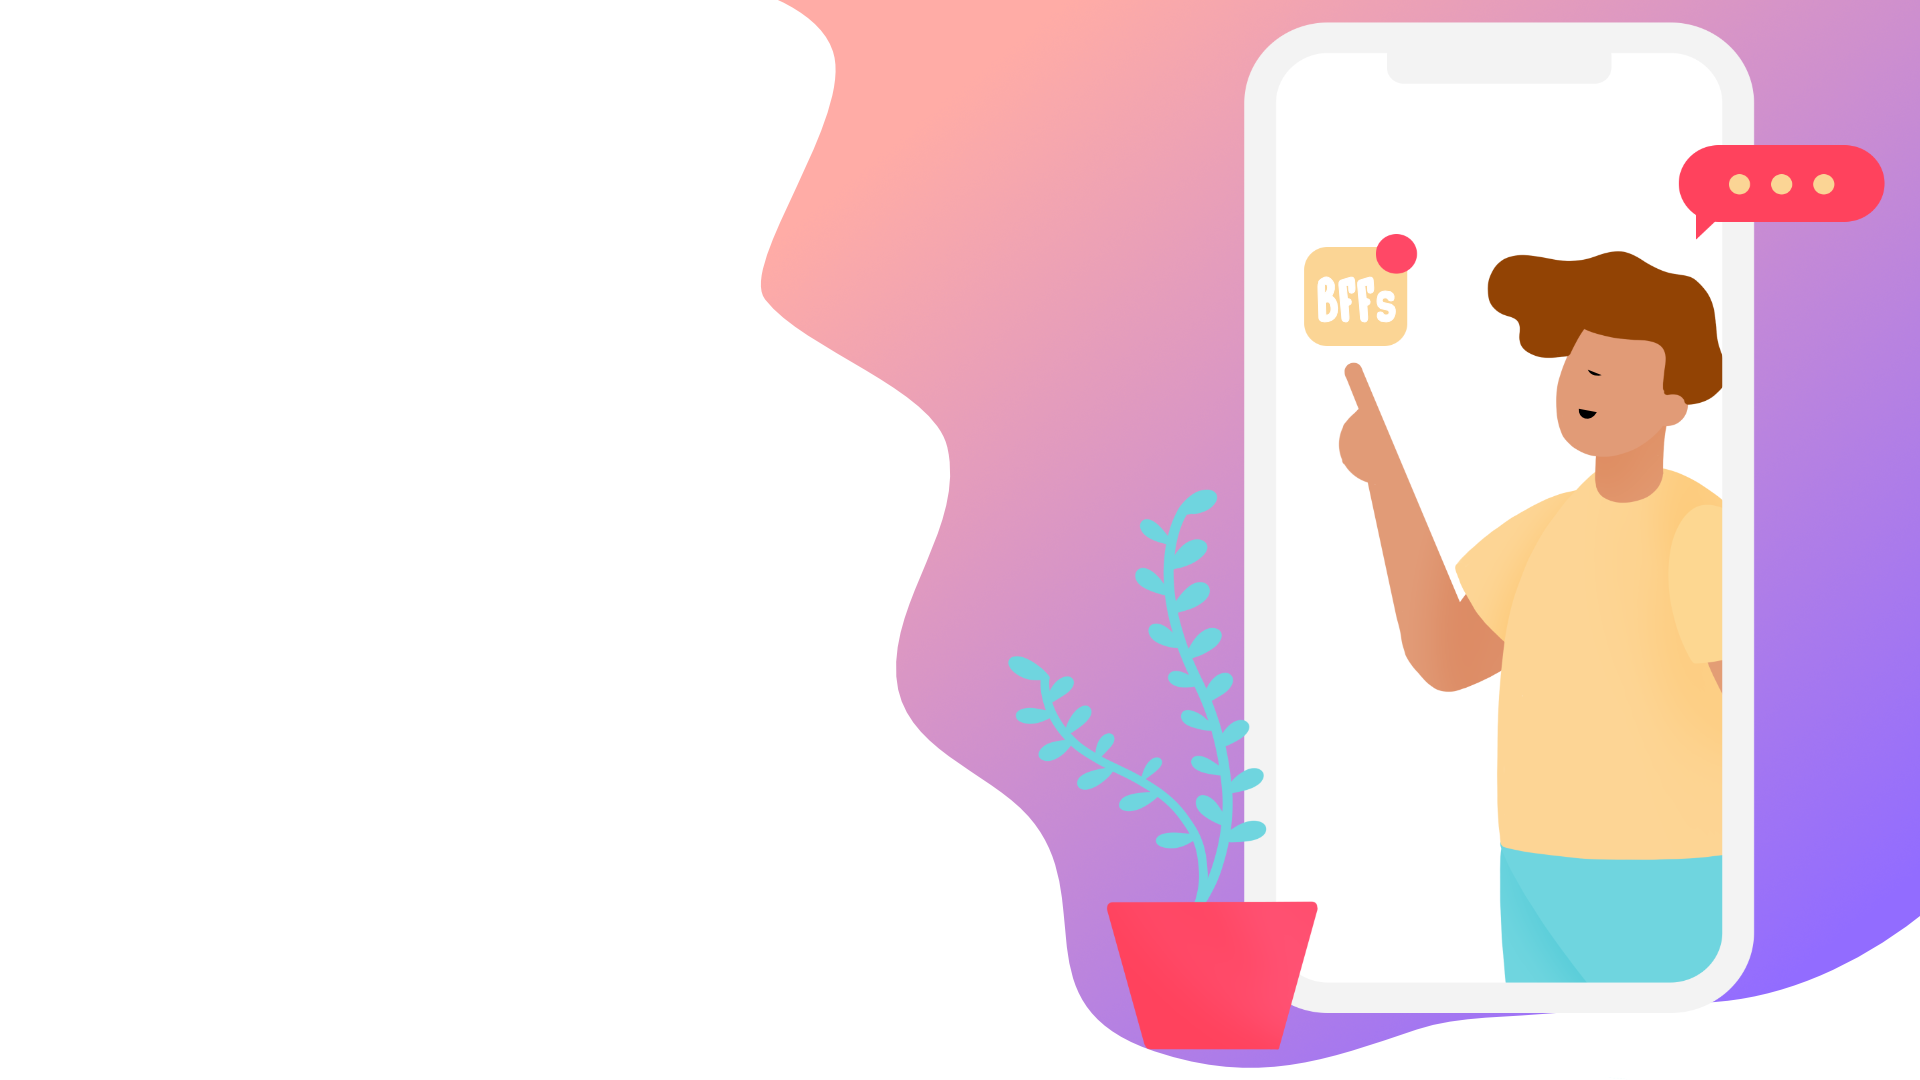
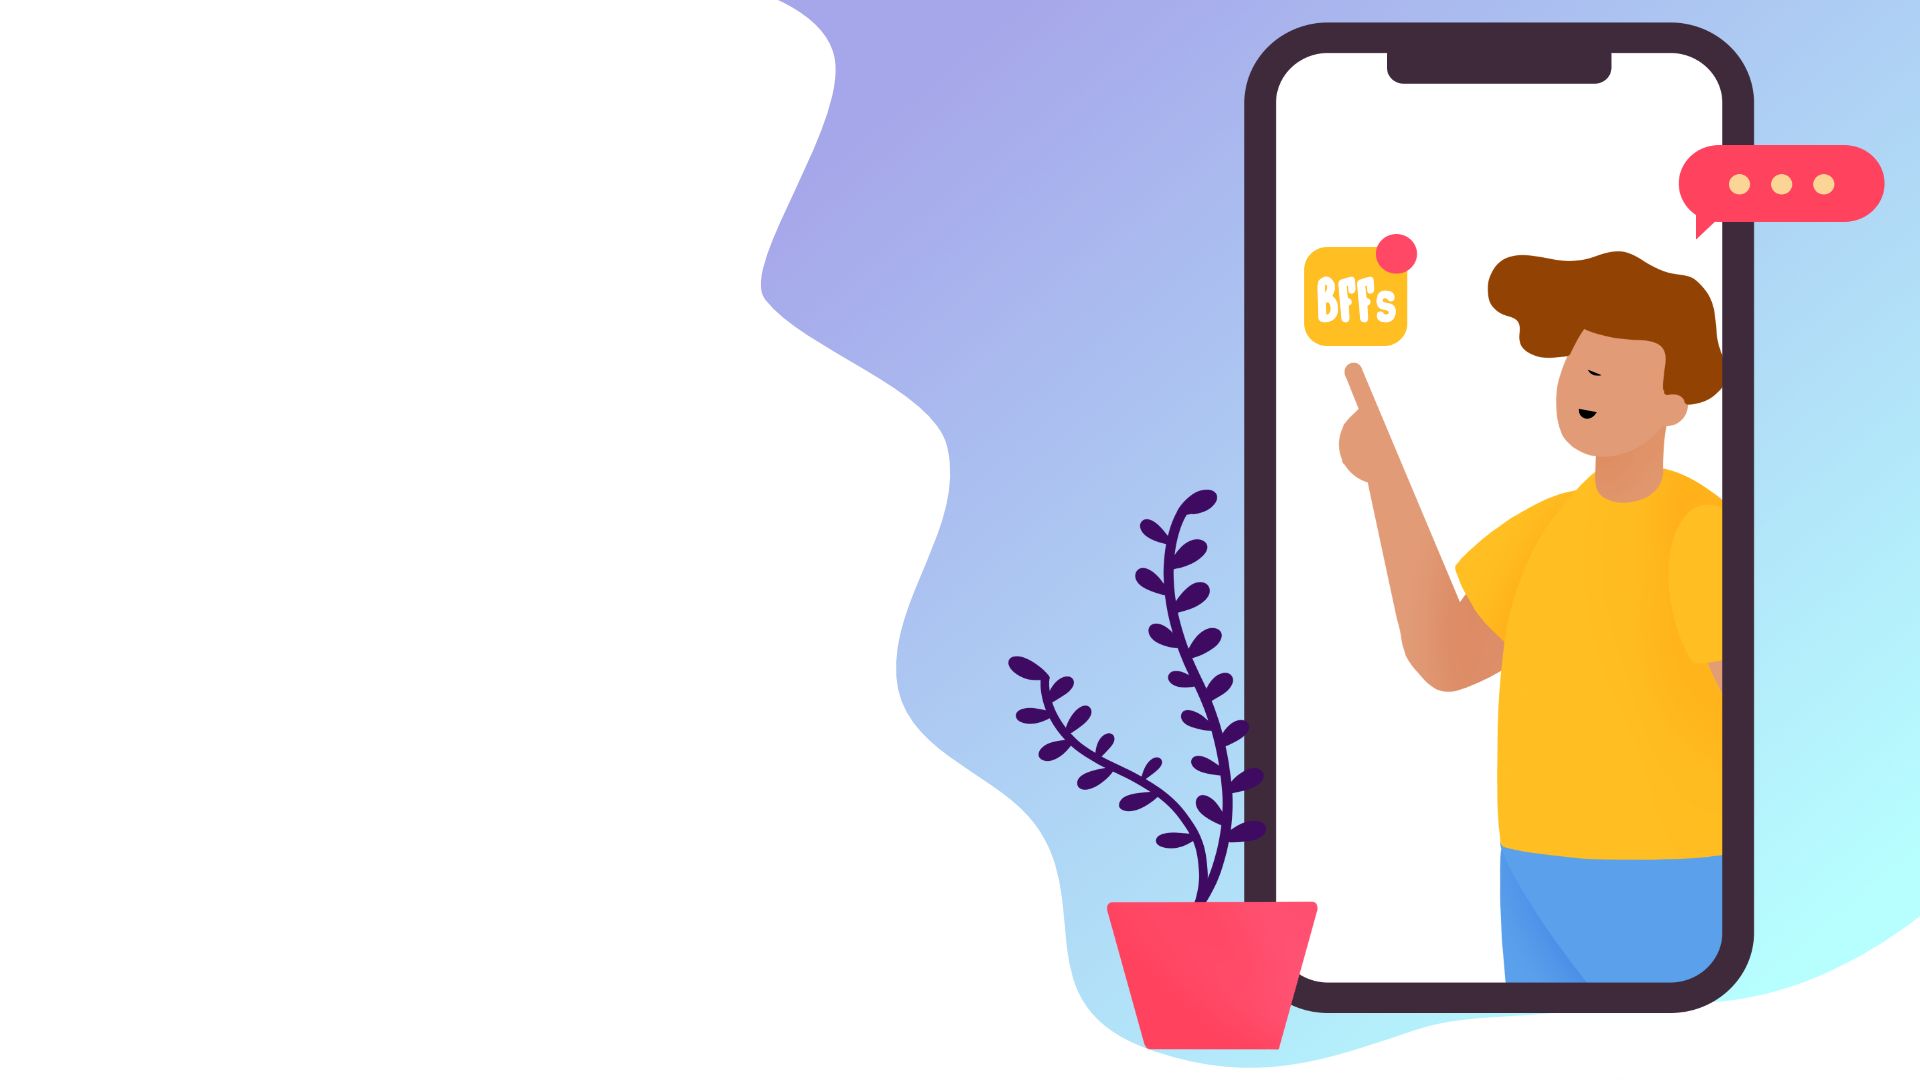
Added navbar

diff --git a/client/src/components/Results/results.css b/client/src/components/Results/results.css
@@ -1,11 +1,20 @@
+.for-background {
+    background:  url('../../images/gradient_only.png') no-repeat center center /cover;
+    height: 100vh;
+}
+
+
+
 .result-score {
-    margin: auto;
     width: 800px;
     height: 500px;
     max-height: 500px;
-    margin-top: 50px;
     font-family: 'Lucida Sans', 'Lucida Sans Regular', 'Lucida Grande', 'Lucida Sans Unicode', Geneva, Verdana, sans-serif;
     box-shadow: 4px 4px 10px 3px #DEDEDE;
+    position: absolute;
+    top: 50%;
+    left: 50%;
+    transform: translate(-50%, -50%);
 }
 
 .friends-header{
@@ -13,8 +22,7 @@
 }
 
 .friends-score {
-    background-color: #f8ceec;
-    background-image: linear-gradient(315deg, #f8ceec 0%, #a88beb 74%);
+    background-image: linear-gradient(315deg, #B7FFFF  0%, #C79AFF 74%);
     color: white;
     text-align: center;
     padding: 40px 0px; 
@@ -32,7 +40,7 @@
 
 .big-score{
     font-size: 80px;
-    color: #A98AEB;
+    color: #C79AFF;
     margin: auto;
     font-family: "Nerko One", cursive;
 }
@@ -45,14 +53,14 @@
     text-align: center;
     font-family: "Nerko One", cursive;
     font-size: 40px;
-    color: #A98AEB;
+    color: #C79AFF;
 }
 
 .lb-score{
     border-radius: 50%;
     height: 30px;
     width: 30px;
-    background-color: #E7C0EC;
+    background-color: #90D8FF;
     color: white;
     line-height: 30px;
     margin: auto;

diff --git a/client/src/App.js b/client/src/App.js
@@ -8,12 +8,14 @@ import AllCards from './components/Cards/create_quiz/allcards.js'
 import QuizTakerName from './components/Cards/take_quiz/quizTakerName.js'
 import Results from './components/Results/results.js'
 import MyResults from './components/Results/myresults.js'
+import MyNavbar from './components/Navbar/navbar.js'
 
 
 function App() {
 
   return (
   <Router>
+    <MyNavbar></MyNavbar>
     <Switch>
     <Route exact path="/" component={Hero}></Route>
     <Route path="/invite" component={Invite}></Route>

diff --git a/client/src/components/Cards/take_quiz/quizTakerCards.css b/client/src/components/Cards/take_quiz/quizTakerCards.css
@@ -11,13 +11,13 @@
     padding: 10px;
 } */
 
-.card-left{
+/* .card-left{
     margin: 2% 10%;
-}
+} */
 
 .show-cards{
     height: 100vh;
-    background:  url('../../../images/cards_view.png') no-repeat center center /cover;
+    background:  url('../../../images/gradient_only.png') no-repeat center center /cover;
 }
 
 .how-well-header{
@@ -25,6 +25,7 @@
     color: gray;
     text-align: center;
     font-size: 70px;
+    padding-top: 50px;
 }
 
 .btn-answer-choice{

diff --git a/client/src/components/Results/results.js b/client/src/components/Results/results.js
@@ -25,6 +25,7 @@ function Results() {
   return (
     <React.Fragment>
     {error ?  <div className="error-404"></div> :
+    <div className="for-background">
     <Row className='result-score'>
       <Col xs={5} className='friends-score'>
         <h2 className="friends-header">
@@ -49,6 +50,7 @@ function Results() {
         </Table>
       </Col>
     </Row>
+    </div>
 }
     </React.Fragment>
   );

diff --git a/client/src/components/Results/myresults.js b/client/src/components/Results/myresults.js
@@ -89,7 +89,7 @@ function MyResults() {
                 onChange={(e) => setPin(e.target.value)}
               ></input>
               <br />
-              <button type='submit' className='btn btn-blue'>
+              <button type='submit' className='btn pink-button'>
                 Let's find out!
               </button>
               {showError ? (

diff --git a/client/src/components/Hero/hero.js b/client/src/components/Hero/hero.js
@@ -1,5 +1,7 @@
 import React, { useState } from 'react';
 import { useHistory } from 'react-router-dom';
+import Navbar from '../../components/Navbar/navbar.js'
+
 import './hero.css';
 
 function Hero() {
